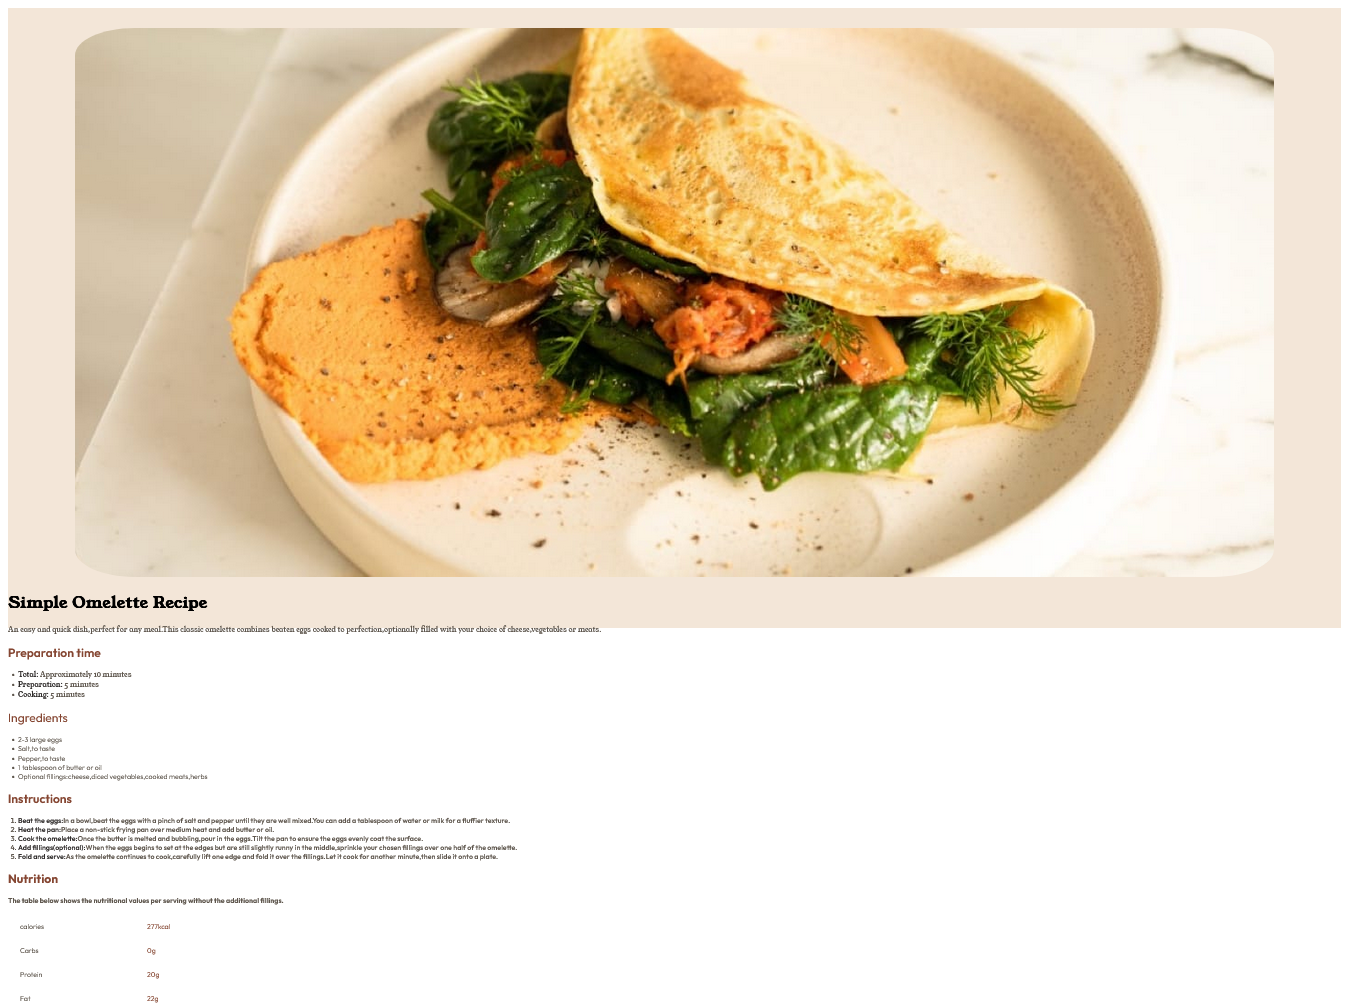
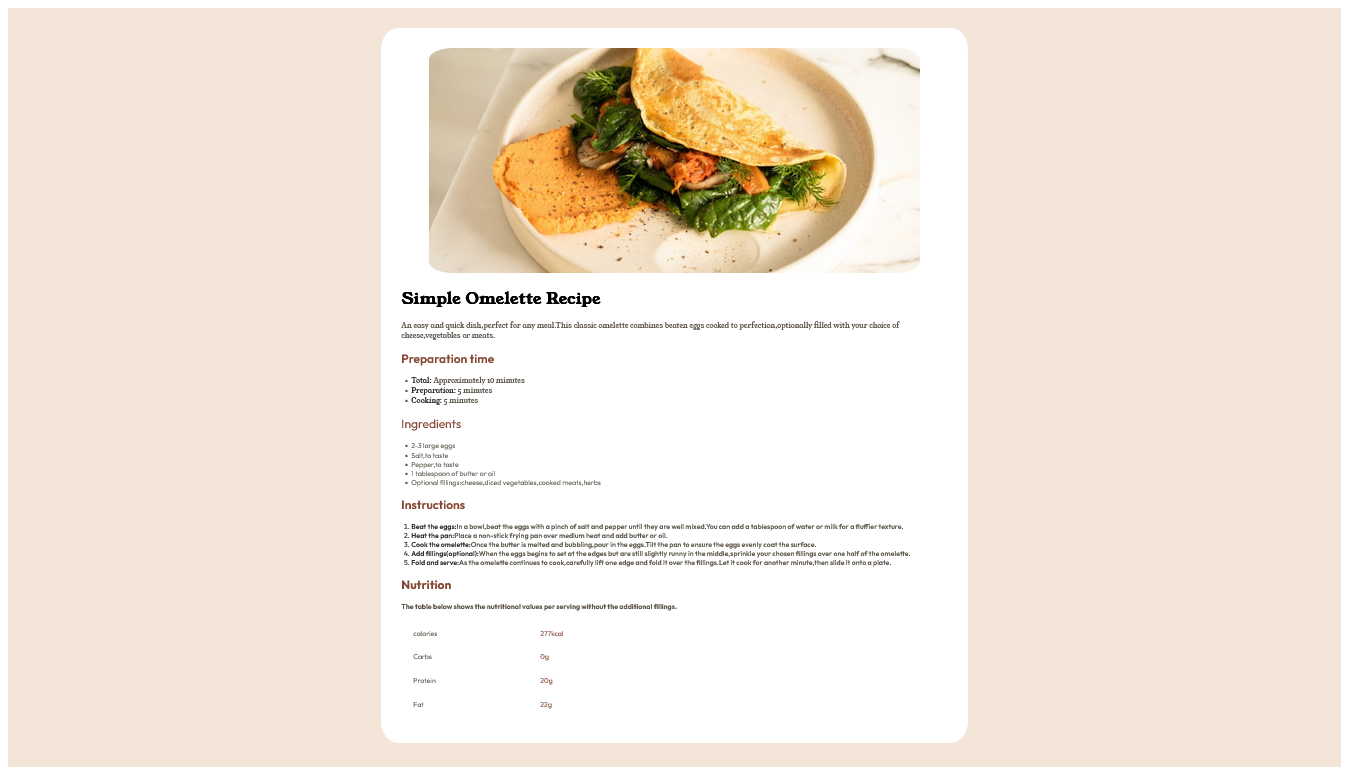
modify screenshot

diff --git a/style.css b/style.css
@@ -1,15 +1,20 @@
-.ma {
+main {
   padding-top: 20px;
   background-color: hsl(30, 54%, 90%);
-  height: 600px;
+  height: 115vh;
 }
-@media screen and (max-width: 600px) .div1 {
+div {
   padding: 20px;
   background-color: white;
-  height: 95%;
-  width: 23%;
-  margin-left: 370pt;
+  height: 105vh;
+  width: 40vw;
+  margin: 0 auto;
   border-radius: 3%;
+}
+img {
+  width: 90%; 
+  margin-left: 5%; 
+  border-radius: 5%
 }
 .h1 {
   font-size: 16px;
@@ -78,4 +83,31 @@
   font-size: 7px;
   font-family: Outfit;
   color: hsl(30, 10%, 34%);
+}
+@media screen and (max-width: 600px) {
+  main {
+    height: 100vh;
+    }
+    div {
+      width: 60vw;  
+      margin-right: 90px;
+      height: 90vh;
+    }
+}
+@media screen and (min-width: 601px) and (max-width:1100px) {
+  main {
+    height: 110vh;
+  }
+  div {
+    height: 100vh;
+    width: 60vw
+  }
+}  
+@media screen and (min-width: 970px) and (max-width: 1100px) {
+  main {
+    height: 120vh
+  }
+  div {
+    height: 110vh
+  }
 }

diff --git a/index.html b/index.html
@@ -38,11 +38,9 @@
     </style>
   </head>
   <body>
-    <main class="ma">
-      <div class="div1">
-        <img
-          style="width: 90%; margin-left: 5%; border-radius: 5%"
-          src="./assets/images/image-omelette.jpeg"
+    <main>
+      <div>
+        <img src="./assets/images/image-omelette.jpeg"
           alt="Omelette"
         />
         <h1 class="h1">Simple Omelette Recipe</h1>
